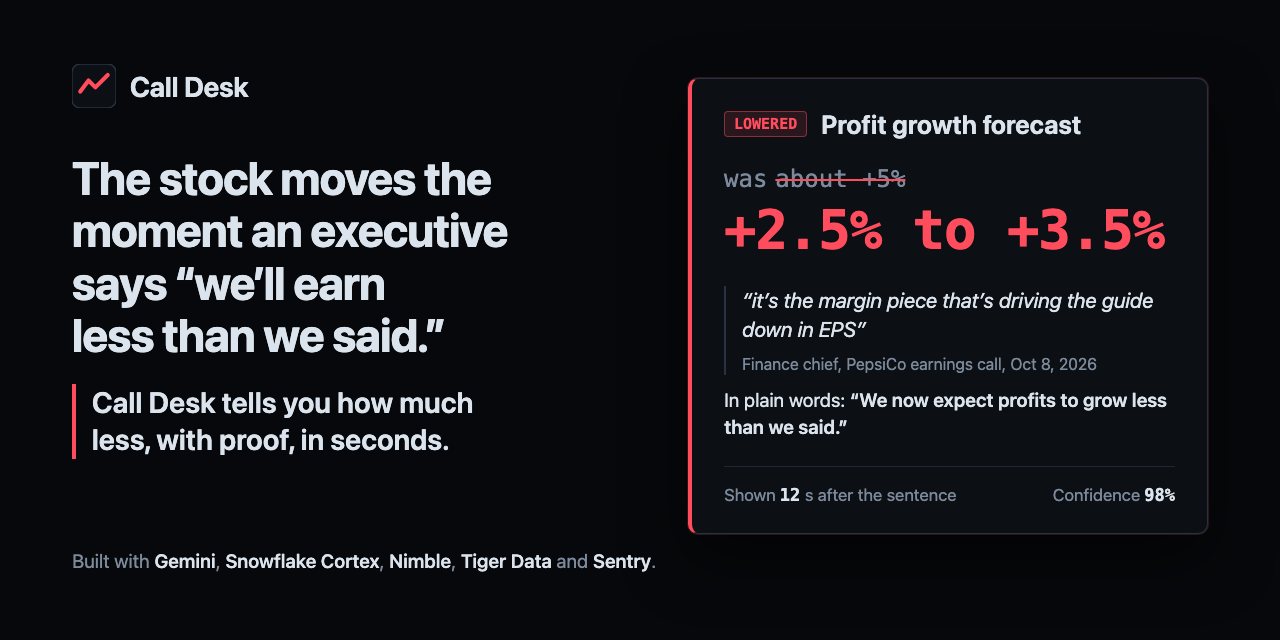
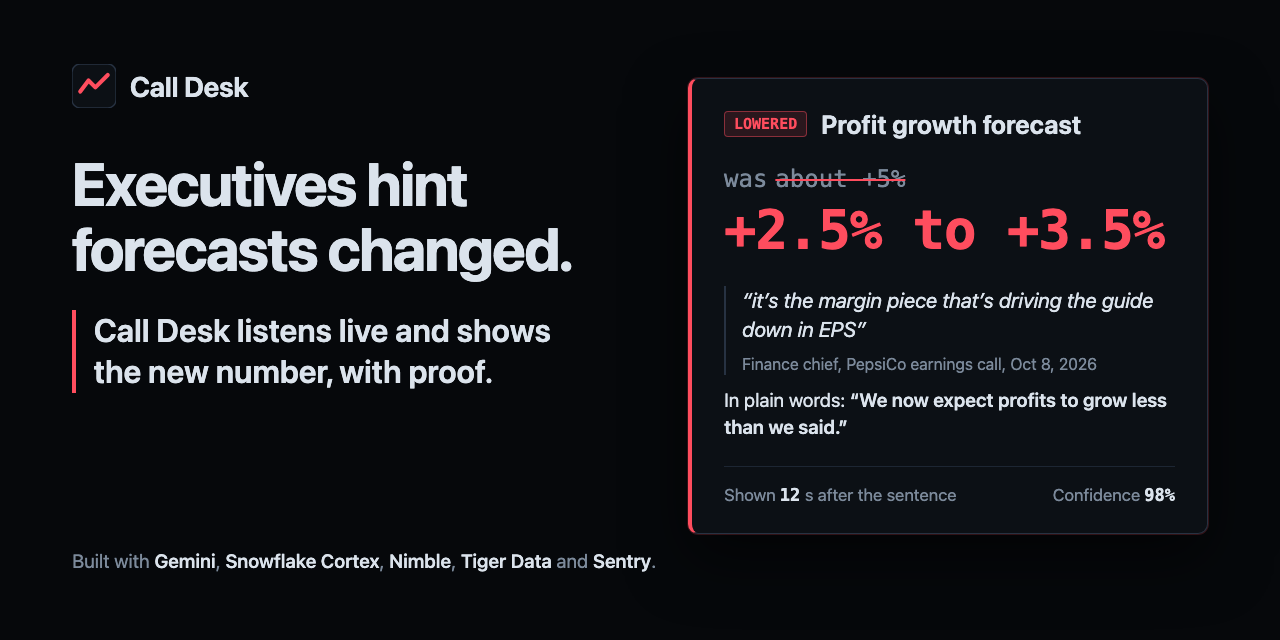
New pitch everywhere (owner): "Executives hint forecasts changed. Call Desk listens live and shows the new number, with proof."
README tagline, DEMO.md pitch and the share image (re-rendered), matching SUBMISSION.md from a7b8f7d.

Changed region(s): [[0.0312, 0.25, 0.4688, 0.7188]]

diff --git a/docs/media/social-preview.html b/docs/media/social-preview.html
@@ -33,11 +33,11 @@
   .mark span { font-size: 28px; font-weight: 650; letter-spacing: -0.01em; }
   h1 {
     margin-top: 44px; text-wrap: balance;
-    font-size: 46px; line-height: 1.14; font-weight: 700; letter-spacing: -0.02em;
+    font-size: 60px; line-height: 1.08; font-weight: 700; letter-spacing: -0.025em;
   }
   .eureka {
-    margin-top: 22px; padding-left: 16px; border-left: 4px solid var(--red); text-wrap: balance;
-    font-size: 29px; line-height: 1.3; font-weight: 600; color: var(--text);
+    margin-top: 28px; padding-left: 18px; border-left: 4px solid var(--red); text-wrap: balance;
+    font-size: 32px; line-height: 1.3; font-weight: 600; color: var(--text);
   }
   .stack { grid-column: 1 / -1; font-size: 19px; line-height: 1.45; color: var(--muted); }
   .stack b { color: var(--text); font-weight: 560; }
@@ -75,8 +75,8 @@
       <svg viewBox="0 0 32 32" aria-hidden="true"><rect width="32" height="32" rx="6" fill="#0c1015" stroke="#273242"/><path d="M6 20 L12 12 L17 17 L26 8" stroke="#ff4d5e" stroke-width="3" fill="none" stroke-linecap="round" stroke-linejoin="round"/></svg>
       <span>Call Desk</span>
     </div>
-    <h1>The stock moves the moment an executive says “we’ll earn less than we said.”</h1>
-    <p class="eureka">Call Desk tells you how much less, with proof, in seconds.</p>
+    <h1>Executives hint forecasts changed.</h1>
+    <p class="eureka">Call Desk listens live and shows the new number, with proof.</p>
   </section>
 
   <section class="card">

diff --git a/README.md b/README.md
@@ -1,6 +1,6 @@
 # Call Desk
 
-**The stock moves the moment an executive says “we'll earn less than we said.” Call Desk tells you how much less, with proof, in seconds.**
+**Executives hint forecasts changed. Call Desk listens live and shows the new number, with proof.**
 
 [![License: MIT](https://img.shields.io/badge/license-MIT-blue)](LICENSE) ![Python 3.11](https://img.shields.io/badge/python-3.11-3776AB?logo=python&logoColor=white) ![FastAPI](https://img.shields.io/badge/FastAPI-SSE-009688?logo=fastapi&logoColor=white) ![Built at AI Engineer NYC 2026](docs/media/badge-built-at.svg)
 

diff --git a/DEMO.md b/DEMO.md
@@ -26,7 +26,7 @@ Measured in real time with all five sponsors live (final stage run 20261011-1504
 
 ## The pitch in one breath
 
-"The stock moves the moment an executive says 'we'll earn less than we said.' Call Desk tells you how much less, with proof, in seconds."
+"Executives hint forecasts changed. Call Desk listens live and shows the new number, with proof."
 
 ## Plain words on stage
 
